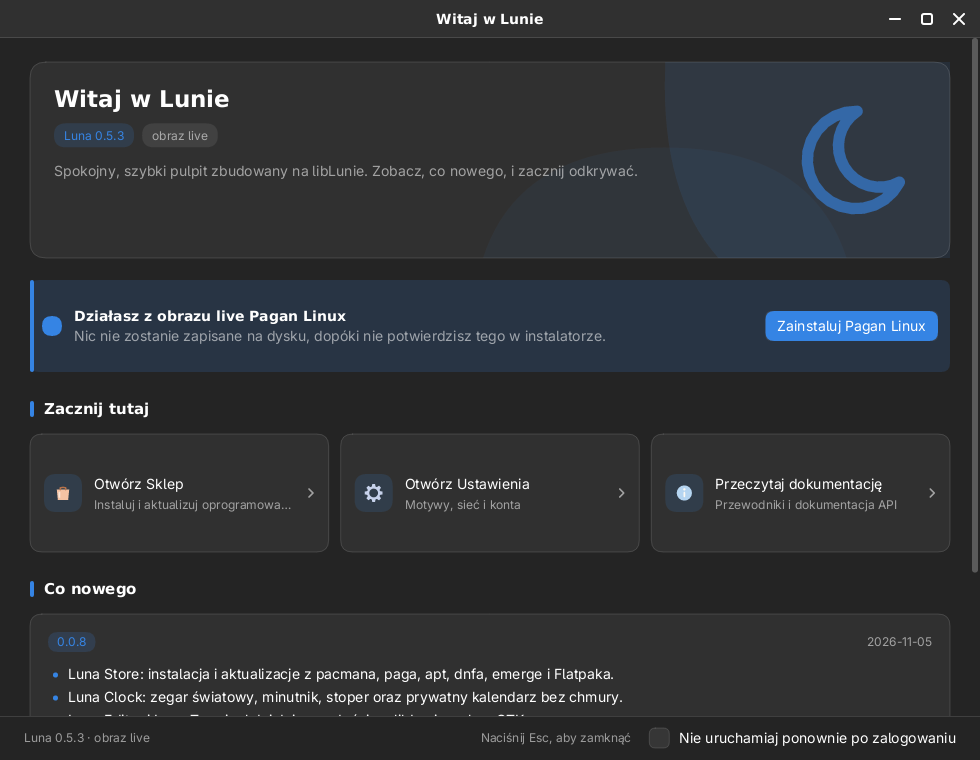
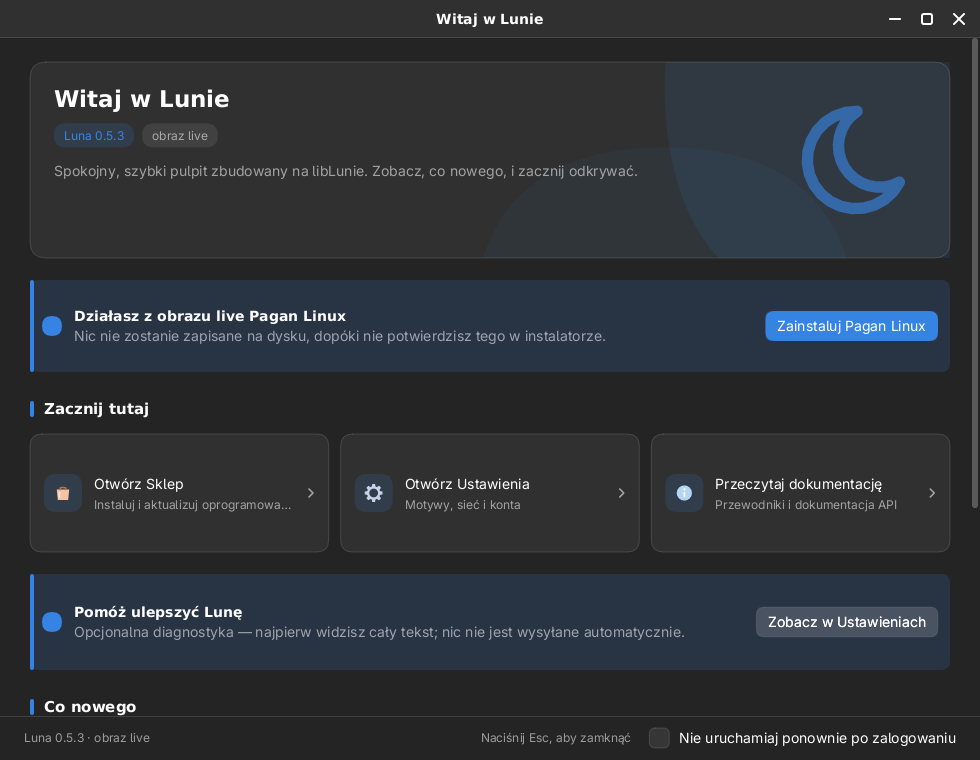
luna-welcome: karta „Pomóż ulepszyć Lunę”
- pod kafelkami „Zacznij tutaj” pojawia się karta informująca o opcjonalnej
  diagnostyce: podgląd przed wysłaniem i brak automatycznego wysyłania,
- akcja „Zobacz w Ustawieniach” uruchamia `luna-settings --page support`
  (nowy `Action::Diagnostics` + `spawn_with`), samo powitanie nic nie zbiera,
- testy fokusa/Taba liczą pozycje z układu, więc nowa akcja nie psuje
  kolejności; odświeżone zrzuty w docs/images.

Changed region(s): [[0.0306, 0.7566, 0.9796, 0.8776], [0.0306, 0.8776, 0.6429, 0.9382], [0.9796, 0.6658, 1.0, 0.7566]]

diff --git a/apps/luna-welcome/src/ui.rs b/apps/luna-welcome/src/ui.rs
@@ -49,6 +49,8 @@ pub struct Layout {
     /// Nagłówek sekcji „Co nowego”.
     pub news_heading: Rect,
     pub news: Rect,
+    /// Karta „Pomóż ulepszyć Lunę” (diagnostyka).
+    pub report: Rect,
     /// Obszar siatki kafelków akcji.
     pub quick: Rect,
     /// Checkbox „Nie uruchamiaj ponownie po zalogowaniu” w stopce.
@@ -118,6 +120,10 @@ pub fn layout(app: &App, size: Size, theme: &Theme, text: &TextEngine) -> Layout
     let quick = Rect::from_xywh(content.x(), y, width, quick_h);
     y = quick.bottom() + SECTION_GAP;
 
+    // Karta „Pomóż ulepszyć Lunę” — informacja + skrót do Ustawień.
+    let report = Rect::from_xywh(content.x(), y, width, 96.0);
+    y = report.bottom() + SECTION_GAP;
+
     // „Co nowego” — nagłówek sekcji i panel z timeline.
     let news_heading = Rect::from_xywh(content.x(), y, width, SECTION_H);
     y = news_heading.bottom() + 10.0;
@@ -155,6 +161,7 @@ pub fn layout(app: &App, size: Size, theme: &Theme, text: &TextEngine) -> Layout
     let news_heading = shift(news_heading);
     let news = shift(news);
     let quick = shift(quick);
+    let report = shift(report);
 
     let mut actions = Vec::new();
     if let Some(area) = banner {
@@ -178,6 +185,15 @@ pub fn layout(app: &App, size: Size, theme: &Theme, text: &TextEngine) -> Layout
         );
         actions.push((action, rect));
     }
+    let report_widget = report_banner();
+    if let Some(button) = report_widget
+        .rects(report, theme, text)
+        .actions
+        .first()
+        .copied()
+    {
+        actions.push((Action::Diagnostics, button));
+    }
 
     Layout {
         header,
@@ -189,6 +205,7 @@ pub fn layout(app: &App, size: Size, theme: &Theme, text: &TextEngine) -> Layout
         quick_heading,
         news_heading,
         news,
+        report,
         quick,
         autostart,
         actions,
@@ -324,6 +341,13 @@ pub fn paint(app: &App, scene: &mut Scene, size: Size, theme: &Theme, text: &Tex
     section_heading(&mut ctx, lay.quick_heading, &tr("Get started"));
     paint_tiles(app, &mut ctx, &lay);
 
+    let report_focused = lay
+        .actions
+        .iter()
+        .position(|(action, _)| *action == Action::Diagnostics)
+        .is_some_and(|index| app.focus.is_focused(index));
+    paint_report_banner(app, &mut ctx, lay.report, report_focused);
+
     section_heading(&mut ctx, lay.news_heading, &tr("What's new"));
     paint_news(app, &mut ctx, lay.news);
 
@@ -441,6 +465,27 @@ fn paint_hero(app: &App, ctx: &mut PaintCtx, area: Rect, wide: bool) {
             colors.dim_text,
         );
         y += theme.typography.body.line_height;
+    }
+}
+
+/// Karta „Pomóż ulepszyć Lunę” — czysta informacja z jednym skrótem.
+fn report_banner() -> Banner {
+    Banner::new(tr("Help improve Luna"))
+        .description(tr(
+            "Optional diagnostics — you review everything first; nothing is sent automatically.",
+        ))
+        .action(tr("Review in Settings"))
+}
+
+fn paint_report_banner(app: &App, ctx: &mut PaintCtx, area: Rect, focused: bool) {
+    let banner = report_banner();
+    banner.paint(ctx, area);
+    let rects = banner.rects(area, ctx.theme, ctx.text);
+    if let Some(button_rect) = rects.actions.first().copied() {
+        let mut button = Button::new(tr("Review in Settings"));
+        button.set_hovered(app.hover == Some(Action::Diagnostics));
+        button.set_focused(focused);
+        button.paint(ctx, button_rect);
     }
 }
 
@@ -1027,13 +1072,21 @@ mod tests {
 
     #[test]
     fn tab_cycles_actions_and_wraps_to_the_checkbox() {
-        let mut app = app(false); // Store, Settings, Docs + checkbox
+        let mut app = app(false); // Store, Settings, Docs, Diagnostics + checkbox
+        let actions = layout(
+            &app,
+            Size::new(980.0, 760.0),
+            &Theme::light(),
+            &TextEngine::system(),
+        )
+        .actions
+        .len();
         press(&mut app, 0xff09, false);
         assert!(app.focus.is_focused(0));
-        press(&mut app, 0xff09, false);
-        press(&mut app, 0xff09, false);
-        press(&mut app, 0xff09, false);
-        assert!(app.focus.is_focused(3)); // checkbox
+        for _ in 0..actions {
+            press(&mut app, 0xff09, false);
+        }
+        assert!(app.focus.is_focused(actions), "checkbox");
         press(&mut app, 0xff09, false);
         assert!(app.focus.is_focused(0));
     }
@@ -1041,8 +1094,16 @@ mod tests {
     #[test]
     fn shift_tab_starts_at_the_checkbox() {
         let mut app = app(false);
+        let actions = layout(
+            &app,
+            Size::new(980.0, 760.0),
+            &Theme::light(),
+            &TextEngine::system(),
+        )
+        .actions
+        .len();
         press(&mut app, 0xff09, true);
-        assert!(app.focus.is_focused(3));
+        assert!(app.focus.is_focused(actions));
     }
 
     #[test]
@@ -1056,19 +1117,17 @@ mod tests {
 
     #[test]
     fn losing_the_installer_clamps_focus() {
-        let mut app = app(true); // Install, Store, Settings, Docs + checkbox
+        let mut app = app(true); // Install, Store, Settings, Docs, Diagnostics + checkbox
+        let theme = Theme::light();
+        let text = TextEngine::system();
+        let size = Size::new(980.0, 760.0);
+        let actions = layout(&app, size, &theme, &text).actions.len();
         press(&mut app, 0xff09, true);
-        assert!(app.focus.is_focused(4));
+        assert!(app.focus.is_focused(actions));
         app.live.live = false;
-        handle_events(
-            &mut app,
-            &[],
-            Size::new(980.0, 760.0),
-            &Theme::light(),
-            &TextEngine::system(),
-        );
-        assert!(app.focus.is_focused(3));
-        assert_eq!(app.focus.current(), Some(3));
+        handle_events(&mut app, &[], size, &theme, &text);
+        assert!(app.focus.is_focused(actions - 1));
+        assert_eq!(app.focus.current(), Some(actions - 1));
     }
 
     #[test]

diff --git a/apps/luna-welcome/src/app.rs b/apps/luna-welcome/src/app.rs
@@ -23,6 +23,8 @@ pub enum Action {
     Store,
     Settings,
     Docs,
+    /// Otwiera w Ustawieniach stronę „Pomoc i zgłaszanie problemów”.
+    Diagnostics,
     Close,
 }
 
@@ -36,6 +38,7 @@ impl Action {
             Self::Store => libluna_i18n::tr("Open the Store"),
             Self::Settings => libluna_i18n::tr("Open Settings"),
             Self::Docs => libluna_i18n::tr("Read the documentation"),
+            Self::Diagnostics => libluna_i18n::tr("Review in Settings"),
             Self::Close => libluna_i18n::tr("Close"),
         }
     }
@@ -149,6 +152,10 @@ impl App {
             Action::Store => self.spawn(std::path::Path::new("luna-store")),
             Action::Settings => self.spawn(std::path::Path::new("luna-settings")),
             Action::Docs => open_uri(&self.docs),
+            Action::Diagnostics => self.spawn_with(
+                std::path::Path::new("luna-settings"),
+                &["--page", "support"],
+            ),
             Action::Close => Ok(()),
         };
         if let Err(error) = result {
@@ -162,8 +169,13 @@ impl App {
     }
 
     fn spawn(&self, program: &std::path::Path) -> Result<(), String> {
+        self.spawn_with(program, &[])
+    }
+
+    fn spawn_with(&self, program: &std::path::Path, args: &[&str]) -> Result<(), String> {
         let mut command = Command::new(program);
         command
+            .args(args)
             .stdin(Stdio::null())
             .stdout(Stdio::null())
             .stderr(Stdio::null());
